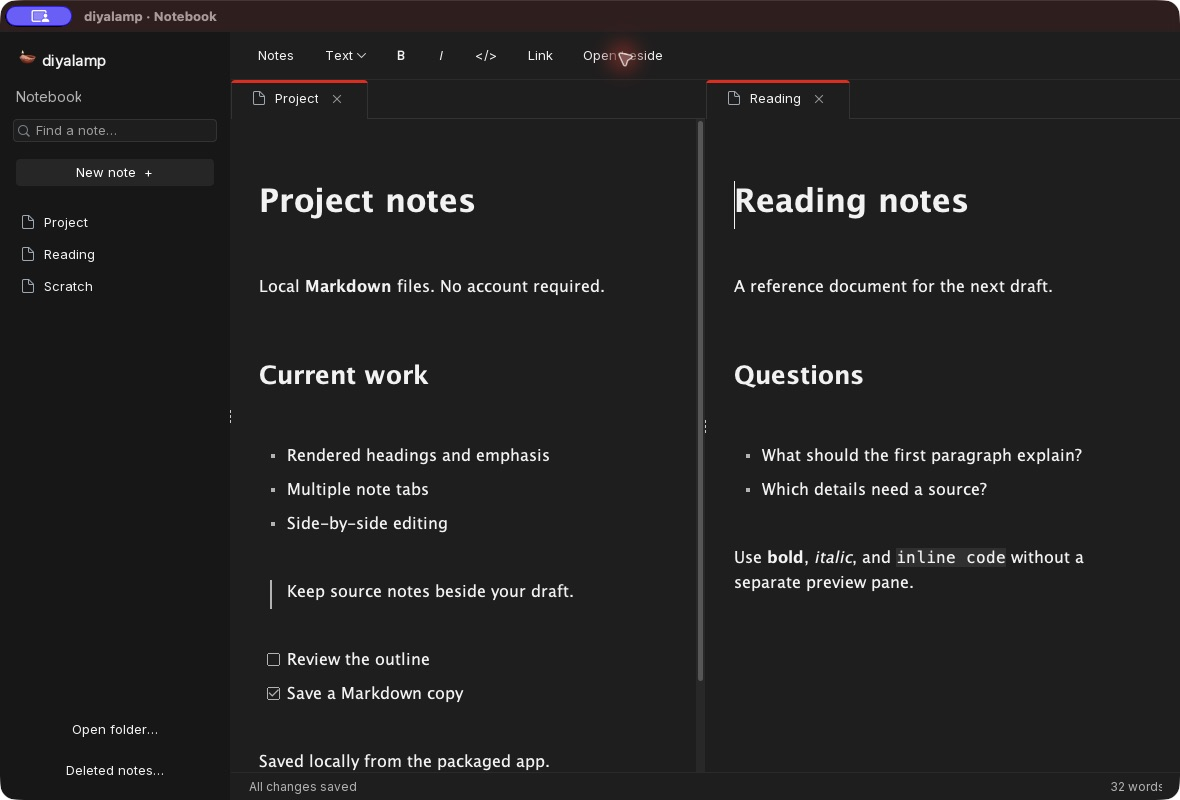
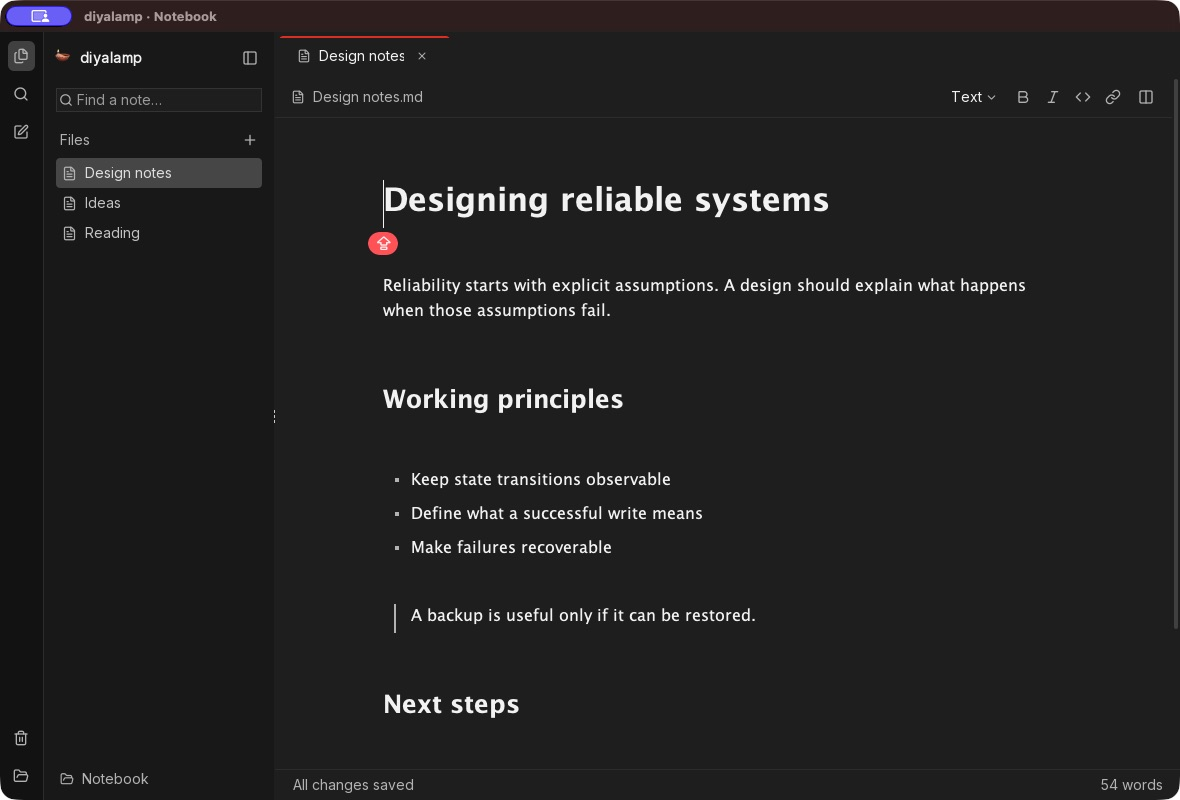
Link the redesigned 1.0.1 release and refresh the app screenshot

diff --git a/README.md b/README.md
@@ -18,7 +18,7 @@ The application opens a folder of `.md` or `.markdown` files. Editing does not r
 
 ## Features
 
-- Dark-only interface with black, white, red, and dark-gray writing surfaces.
+- Dark-only workspace with Inter throughout, a compact action rail, file explorer, note tabs, and Lucide controls.
 - Rendered headings, bold, italic, inline code, links, lists, checklists, quotes, and fenced code blocks.
 - Formatting controls, Markdown typing shortcuts, and slash commands.
 - Search by filename, multiple closable note tabs, and side-by-side editing.
@@ -28,22 +28,22 @@ The application opens a folder of `.md` or `.markdown` files. Editing does not r
 
 ## macOS downloads
 
-Version **1.0.0** is available from [GitHub Releases](https://github.com/diyalamp/diyalamp/releases/tag/v1.0.0) and [diyalamp.com](https://diyalamp.com).
+Version **1.0.1** is available from [GitHub Releases](https://github.com/diyalamp/diyalamp/releases/tag/v1.0.1) and [diyalamp.com](https://diyalamp.com).
 
-- [Apple silicon DMG · 35.7 MB](https://github.com/diyalamp/diyalamp/releases/download/v1.0.0/diyalamp-1.0.0-macos-arm64.dmg)
-- [Intel DMG · 37.3 MB](https://github.com/diyalamp/diyalamp/releases/download/v1.0.0/diyalamp-1.0.0-macos-x86_64.dmg)
+- [Apple silicon DMG · 36.7 MB](https://github.com/diyalamp/diyalamp/releases/download/v1.0.1/diyalamp-1.0.1-macos-arm64.dmg)
+- [Intel DMG · 38.3 MB](https://github.com/diyalamp/diyalamp/releases/download/v1.0.1/diyalamp-1.0.1-macos-x86_64.dmg)
 
 Drag diyalamp to Applications. The release includes SHA-256 checksums.
 
 **Size target: under 5 MB installed. This target has not been achieved.** Footprint reduction is tracked as an engineering objective, not a current product claim.
 
-The package includes a runtime; users do not need to install Java separately. The local Apple silicon installation occupies approximately **46 MiB**. Release downloads are **35,661,621 bytes** (Apple silicon) and **37,309,904 bytes** (Intel). Architecture and runtime builds can differ; release assets provide SHA-256 checksums.
+The package includes a runtime; users do not need to install Java separately. The local Apple silicon installation occupies approximately **47 MiB**. Release downloads are **36,701,138 bytes** (Apple silicon) and **38,338,286 bytes** (Intel). Architecture and runtime builds can differ; release assets provide SHA-256 checksums.
 
 The first community release is **unsigned and not Apple-notarized**. macOS may display a security warning. Signing and notarization are not configured yet.
 
 ## Build and test
 
-Requires JDK 21 or newer. The desktop app uses Swing, FlatLaf, and Inter. There is no JavaScript runtime or web backend in the desktop application.
+Requires JDK 21 or newer. The desktop app uses Swing, FlatLaf, Lucide icons, CommonMark Java, and Inter. There is no JavaScript runtime or web backend in the desktop application.
 
 ```sh
 sh desktop/build.sh
